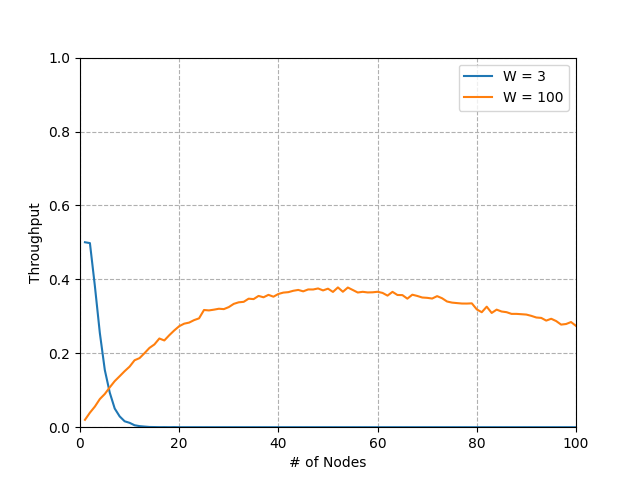
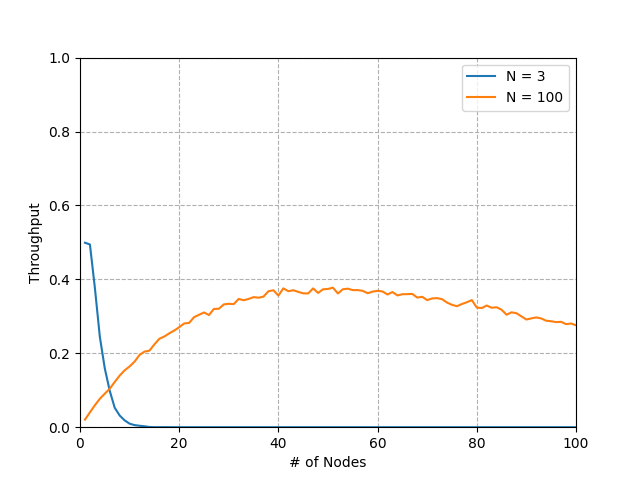
update

diff --git a/aloha_slotted_sim.py b/aloha_slotted_sim.py
@@ -55,7 +55,7 @@ def main():
 
 	plt.xlabel("# of Nodes")
 	plt.ylabel("Throughput")
-	plt.legend(['W = 3',  'W = 100'], loc='upper right')
+	plt.legend(['N = 3',  'N = 100'], loc='upper right')
 	plt.axis([0, 100, 0, 1])
 	plt.grid(linestyle='--')
 	plt.show()
